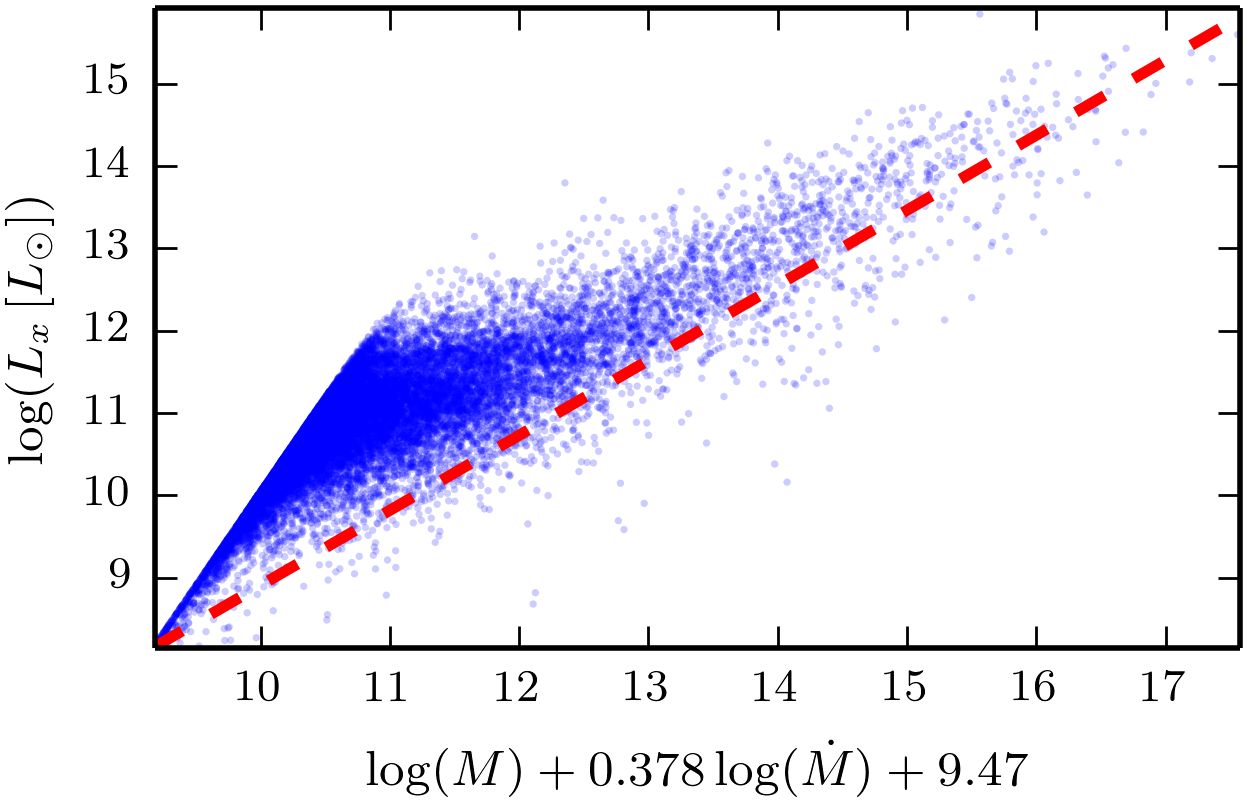
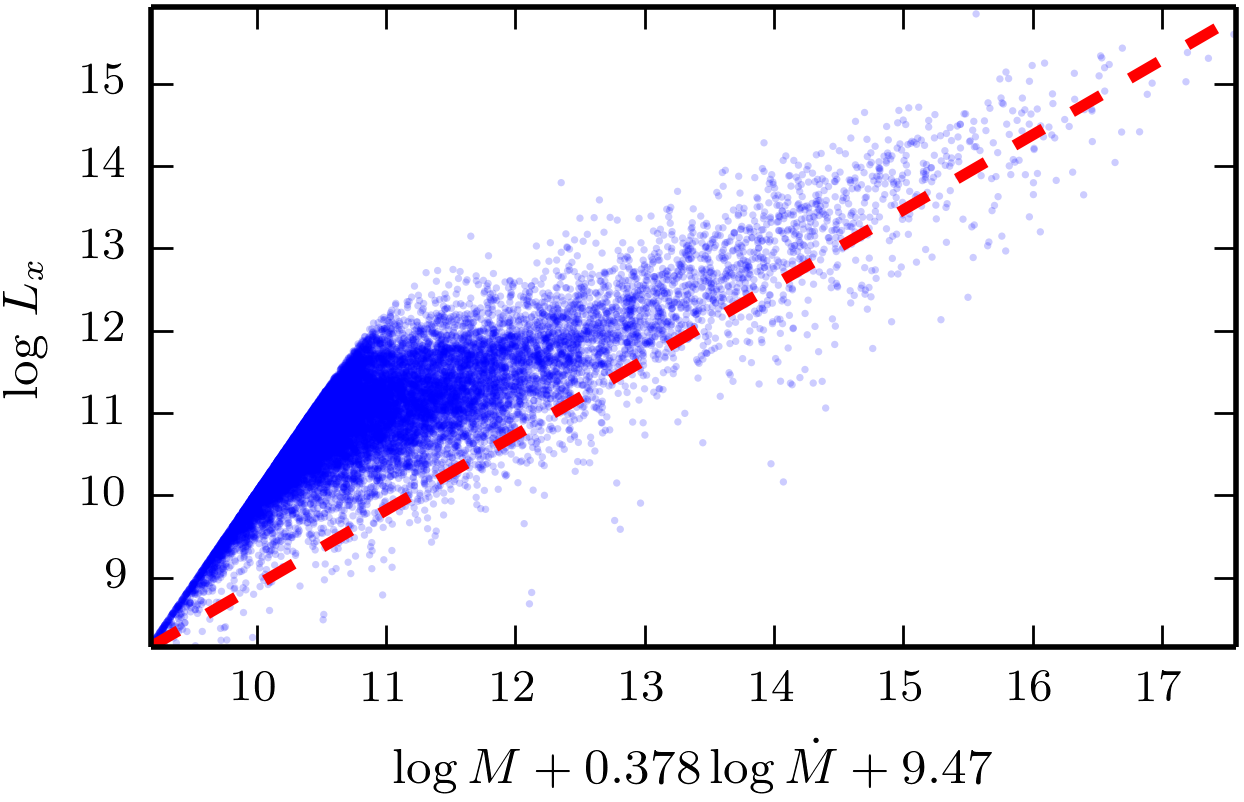
Added new FP fit figure to Section 4. Updated axis labels on FP figure.

diff --git a/sec4.tex b/sec4.tex
@@ -146,10 +146,11 @@ for the sample.}
 \end{figure}
 \begin{figure}
 \begin{centering}
-\includegraphics{Figures/q_nr_hist}
+\includegraphics{Figures/fp_fit}
 \par\end{centering}
 
-\protect\caption{\label{fig:q_nr_hist}A log-histogram of the number of best-fit $q$
-values, with one value found per Illustris-2 black hole, using Newton-Raphson
-root finding. The maximum likelihood is $0.684$, with $3911$ black holes, and the mean value is $0.693$.}
+\protect\caption{\label{fig:q_nr_hist}The fit to the fundamental plane
+$\log\left(L_x\,[L_\odot]\right) = \log M+0.378\log\dot{{M}}+9.47$ using our sample. The
+X-ray luminosities are in units of $L_\odot$, the masses in units of $M_\odot$, and the
+accretion rate in units of $M_{\odot}\,s^{-1}$.}
 \end{figure}

diff --git a/makePlots.py b/makePlots.py
@@ -149,6 +149,6 @@ _mdot = np.linspace(np.min(bmdot_phys),np.max(bmdot_phys),200)
 x = _m + opt[0]*_mdot + opt[1]
 y = epsilon*(_mdot + np.log10(alpha)) + eta
 plt.plot(x,y, linestyle='--', c='r', linewidth=2)
-plt.ylabel(r'$\log(L_{x}\,[L_\odot])$',fontsize=axisLabelTextSize)
-plt.xlabel(r"$\log(M)+{0:.3}\log(\dot{{M}})+{1:.3}$".format(opt[0],opt[1]),fontsize=axisLabelTextSize)
+plt.ylabel(r'$\log\,L_{x}$',fontsize=axisLabelTextSize)
+plt.xlabel(r"$\log M+{0:.3}\log\dot{{M}}+{1:.3}$".format(opt[0],opt[1]),fontsize=axisLabelTextSize)
 save_fig('Figures/fp_fit.png')
